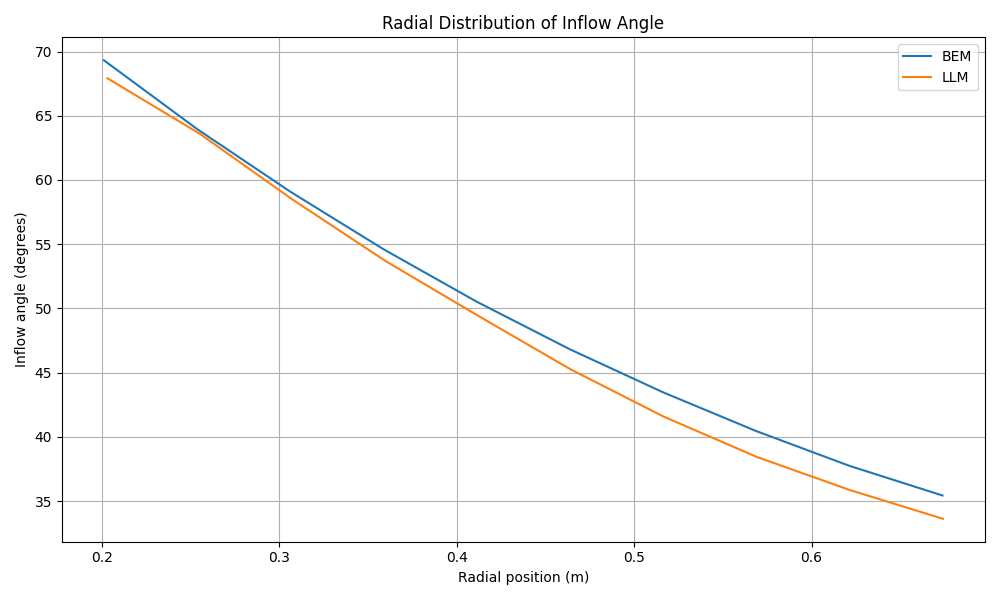
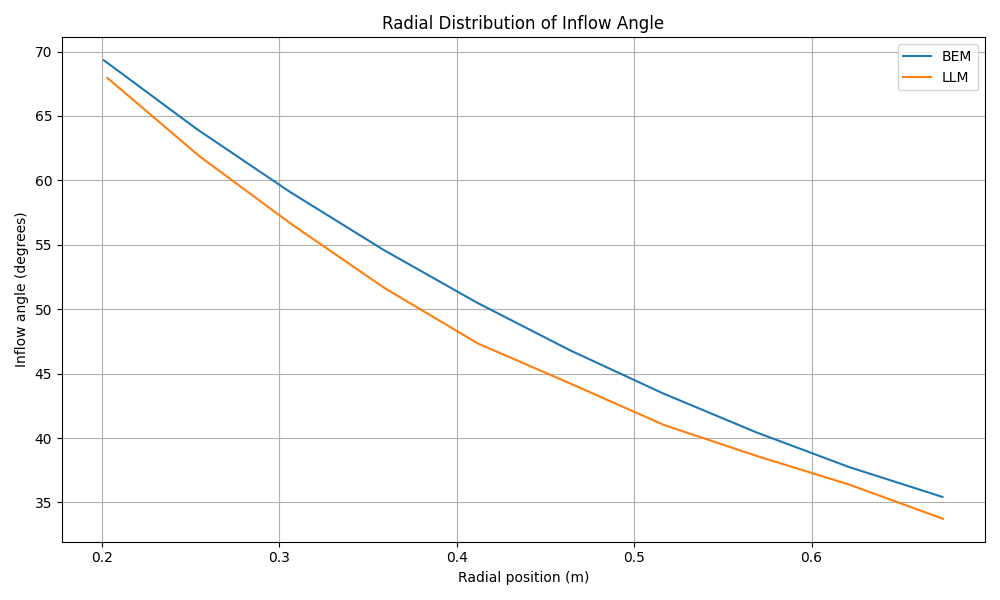
changed LLM

diff --git a/LLM.py b/LLM.py
@@ -28,7 +28,7 @@ def PrandtlCorrections(Nb, r, R, TSR, a, root_pos_R, tip_pos_R):
     F_root = (2/np.pi)*np.arccos(np.exp((-Nb/2)*(((r/R)-(root_pos_R))/(r/R))*(np.sqrt(1 + ((TSR*(r/R))**2)/((1-a)**2)))))  
     F_tot = F_tip*F_root
     
-    if(F_tot == 0) or (F_tot is np.nan) or (F_tot is np.inf):
+    if(F_tot == 0) or (F_tot == np.nan) or (F_tot == np.inf):
         # handle exceptional cases for 0/NaN/inf value of F_tot
         # print("F total is 0/NaN/inf.")
         F_tot = 0.00001
@@ -88,11 +88,12 @@ def ControlPoint(r_R, b, blade_seg, chord_dist, twist_dist):
 
     CtrlPts = []
     for j in range(blade_seg):
-        y = ((r_R[j]*b)+(r_R[j+1]-r_R[j])*mlt*b)
-        x = 0.25*(np.interp(y/b, r_R, chord_dist)*b)*np.cos(np.interp(y/b, r_R, twist_dist))
-        z = 0.25*(np.interp(y/b, r_R, chord_dist)*b)*np.sin(np.interp(y/b, r_R, twist_dist))
-
-        CtrlPts.append({'CP'+str(j+1): [x, y, z]})
+        CP_temp = {}
+        y = (r_R[j]*b)+((r_R[j+1]-r_R[j])*mlt*b)
+        x = -0.25*(np.interp(y/b, r_R, chord_dist)*b)*np.cos(np.interp(y/b, r_R, twist_dist)) + 1e-4
+        z = -0.25*(np.interp(y/b, r_R, chord_dist)*b)*np.sin(np.interp(y/b, r_R, twist_dist))
+        CP_temp = {'CP'+str(j+1): [x, y, z]}
+        CtrlPts.append(CP_temp)
 
     return CtrlPts
 
@@ -165,14 +166,14 @@ def HorseshoeVortex(l, U_wake, vor_fil, blade_seg, Omega, r_R, Gamma, Nb, chord_
                 # left side of the trailing vortex
                 x = [U_wake*dt*(i+1), U_wake*dt*i]
                 y = [r_R[j]*b*np.cos(Omega*dt*(i+1)), r_R[j]*b*np.cos(Omega*dt*i)]
-                z = [(-1)*r_R[j]*b*np.sin(Omega*dt*(i+1)), (-1)*r_R[j]*b*np.sin(Omega*dt*i)]
+                z = [r_R[j]*b*np.sin(Omega*dt*(i+1)), r_R[j]*b*np.sin(Omega*dt*i)]
 
                 TR_left['VF'+str(vor_fil-i)] = {'pos1': [x[0], y[0], z[0]], 'pos2':TR_left['VF'+str((vor_fil+1)-i)]['pos1'], 'Gamma': Gamma[j]}
 
                 # right side of the trailing vortex
                 x = [U_wake*dt*(i+1), U_wake*dt*i]
                 y = [r_R[j+1]*b*np.cos(Omega*dt*(i+1)), r_R[j+1]*b*np.cos(Omega*dt*i)]
-                z = [(-1)*r_R[j+1]*b*np.sin(Omega*dt*(i+1)), (-1)*r_R[j+1]*b*np.sin(Omega*dt*i)]
+                z = [r_R[j+1]*b*np.sin(Omega*dt*(i+1)), r_R[j+1]*b*np.sin(Omega*dt*i)]
 
                 TR_right['VF'+str((vor_fil+2)+i)] = {'pos1': TR_right['VF'+str((vor_fil+1)+i)]['pos2'], 'pos2':[x[0], y[0], z[0]], 'Gamma': Gamma[j]}
             
@@ -205,7 +206,7 @@ def InducedVelocities(CtrlPts, pos1, pos2, gamma, tol=1e-4):
     Input Arguments:-
         CtrlPts: [xp, yp, zp]; 1D array of control point coordinates
         pos1: [x1, y1, z1]; 1D array of the start position of the vortex filament
-        pos1: [x2, y2, z2]; 1D array of the end position of the vortex filament
+        pos2: [x2, y2, z2]; 1D array of the end position of the vortex filament
         gamma: int or float; magnitude of circulation around the filament
     """
     r1 = np.sqrt((CtrlPts[0]-pos1[0])**2 + (CtrlPts[1]-pos1[1])**2 + (CtrlPts[2]-pos1[2])**2)
@@ -257,7 +258,7 @@ def InfluenceCoeff(HS_vortex, CtrlPts, vor_fil, Nb):
                     if vf_key != ('VF'+str(vor_fil+1)):
                         if j != 0:
                             fil_neg1 = hs_neg1['VF'+str((2*vor_fil)+1-vf_num)]
-
+                        
                         fil = hs[vf_key]
 
                         if j != (N_cp-1):
@@ -326,9 +327,9 @@ def LiftingLineModel(HS_vortex, CtrlPts, polar_alfa, polar_cl, polar_cd, Vinf, O
 
     u_infl, v_infl, w_infl = InfluenceCoeff(HS_vortex, CtrlPts, vor_fil, Nb)
 
-    conv = 1e-8
+    conv = 1e-6
     max_iter = 1000
-    relax = 0.1
+    relax = 0.25
     iter = 0
     error = 1e8
 
@@ -337,7 +338,7 @@ def LiftingLineModel(HS_vortex, CtrlPts, polar_alfa, polar_cl, polar_cd, Vinf, O
             xp = CtrlPts[i]['CP'+str(i+1)][0]
             yp = CtrlPts[i]['CP'+str(i+1)][1]
             zp = CtrlPts[i]['CP'+str(i+1)][2] 
-            r_cp[i] = np.sqrt(yp**2 + zp**2)
+            r_cp[i] = np.sqrt(xp**2 + yp**2 + zp**2)
 
             seg_len[i] = (r_R[i+1]-r_R[i])*b
 
@@ -349,16 +350,16 @@ def LiftingLineModel(HS_vortex, CtrlPts, polar_alfa, polar_cl, polar_cd, Vinf, O
             # print("--------------TEST-------------", np.array([u_ind, v_ind, w_ind]), iter)
 
             azim_vec = np.cross([1/r_cp[i],0,0],[xp, yp, zp])
-
+            
             # Finding the local velocity components at the control points
             V_ax_local = Vinf + u_ind   
-            V_tan_local = (Omega*r_cp[i]) + np.dot(azim_vec,[V_ax_local, v_ind, w_ind])
+            V_tan_local = (Omega*yp) + np.dot(azim_vec,[V_ax_local, v_ind, w_ind])
 
             V_local_mag = np.sqrt((V_ax_local**2) + (V_tan_local**2))
             phi[i] = np.arctan(V_ax_local/V_tan_local)
 
             # Finding the blade element properties
-            r_R_local = r_cp[i]/b
+            r_R_local = yp/b
             chord_local = np.interp(r_R_local, r_R, chord_dist) * b
             twist_local = np.interp(r_R_local, r_R, twist_dist)
             alfa[i] = twist_local - np.rad2deg(phi[i])
@@ -384,14 +385,14 @@ def LiftingLineModel(HS_vortex, CtrlPts, polar_alfa, polar_cl, polar_cd, Vinf, O
             dCQ[i] = (F_tan_l[i]*Nb*r_cp[i]*seg_len[i])/(rho*((Omega/(2*np.pi))**2)*(2*b)**5)
             dCP[i] = (F_ax_l[i]*Nb*seg_len[i]*Vinf)/(rho*((Omega/(2*np.pi))**3)*(2*b)**5)
             
-        a_avg = np.dot(a_ax_loc, (2*np.pi*np.multiply(r_cp,seg_len)))/(np.sum(2*np.pi*np.multiply(r_cp,seg_len)))
-        # a_avg = np.sqrt(np.mean(np.square(a_ax_loc), axis=0))
+        # a_avg = np.dot(a_ax_loc, (2*np.pi*np.multiply(r_cp,seg_len)))/(np.sum(2*np.pi*np.multiply(r_cp,seg_len)))
+        a_avg = np.sqrt(np.mean(np.square(a_ax_loc), axis=0))
 
         error = np.max(np.abs(gamma_new-gamma))
         if error>conv and iter<=max_iter:
             print(gamma, iter)
             gamma = (gamma_new*relax) + ((1-relax)*gamma)
-            HS_vortex = HorseshoeVortex(l, (Vinf*(1+a_avg)), vor_fil, N_cp, -Omega, r_R, np.ones(N_cp), Nb, chord_dist, twist_dist)
+            HS_vortex = HorseshoeVortex(l, (Vinf*(1+a_avg)), vor_fil, N_cp, Omega, r_R, np.ones(N_cp), Nb, chord_dist, twist_dist)
             u_infl, v_infl, w_infl = InfluenceCoeff(HS_vortex, CtrlPts, vor_fil, Nb)
             iter += 1
         else:
@@ -425,7 +426,7 @@ Vinf = 60                       # velocity [m/s]
 J = np.array([2.0])
 
 # Blade geometry
-Nb = 2                  # number of blades
+Nb = 6                  # number of blades
 b = 0.7                 # Blade radius [m] (or blade span)
 root_pos_R = 0.25       # normalised blade root position (r_root/R)
 tip_pos_R = 1           # normalised blade tip position (r_tip/R)
@@ -480,7 +481,7 @@ CtrlPts, HS_vortex, results = [[] for i in range(3)]
 
 for i in range(len(U_wake)):
     CtrlPts.append(ControlPoint(r_R, b, blade_seg, chord_dist, np.deg2rad(twist_dist)))
-    HS_vortex.append(HorseshoeVortex(l, U_wake[i], vor_fil, blade_seg, -Omega[i], r_R, np.ones(blade_seg), Nb, (chord_dist*b), np.deg2rad(twist_dist)))
+    HS_vortex.append(HorseshoeVortex(l, U_wake[i], vor_fil, blade_seg, Omega[i], r_R, np.ones(blade_seg), Nb, (chord_dist*b), np.deg2rad(twist_dist)))
     results.append(LiftingLineModel(HS_vortex[i], CtrlPts[i], polar_alfa, polar_cl, polar_cd, Vinf, Omega[i], rho, b, r_R, chord_dist, twist_dist, Nb, l, U_wake[i], vor_fil, Gamma[i]))
 
 
@@ -508,11 +509,15 @@ for blade_idx in range(Nb * blade_seg):
     nodes = np.array(nodes)
     ax.plot(nodes[:, 0], nodes[:, 1], nodes[:, 2], color=color)
 
+for i in range(blade_seg):
+    pt = CtrlPts[0][i]['CP'+str(i+1)]
+    ax.plot([pt[0]], [pt[1]], [pt[2]], marker='o', markersize=2)
+
 ax.set_xlabel("x [m]")
 ax.set_ylabel("y [m]")
 ax.set_zlabel("z [m]")
 ax.set_title("Wake visualization (Horseshoe Vortices)")
-ax.set_box_aspect([1, 1, 1])
+ax.set_box_aspect([1, 0.3, 0.3])
 plt.tight_layout()
 plt.show()
 
@@ -553,8 +558,8 @@ plt.show()
 # 3. Radial distribution of the circulation (Gamma)
 plt.figure(figsize=(10, 6))
 # For BEM, Circulation (Gamma) = 0.5 * V_local * Cl * chord
-Gamma_bem = 0.5 * np.sqrt((Vinf*(1+a[0]))*2 + (Omega[0]*radial_positions_bem*(1-a_tan[0]))**2) * Cl[0] * chord[0]
-plt.plot(radial_positions_bem, Gamma_bem, label='BEM')
+# Gamma_bem = 0.5 * np.sqrt((Vinf*(1+a[0]))*2 + (Omega[0]*radial_positions_bem*(1-a_tan[0]))**2) * Cl[0] * chord[0]
+plt.plot(radial_positions_bem, Gamma[0], label='BEM')
 # For LLM, Gamma is directly available in results['Gamma']
 plt.plot(radial_positions_llm, results[0]['Gamma'][0:blade_seg], label='LLM') # Assuming first 'blade_seg' elements of gamma correspond to the first blade
 plt.xlabel('Radial position (m)')
